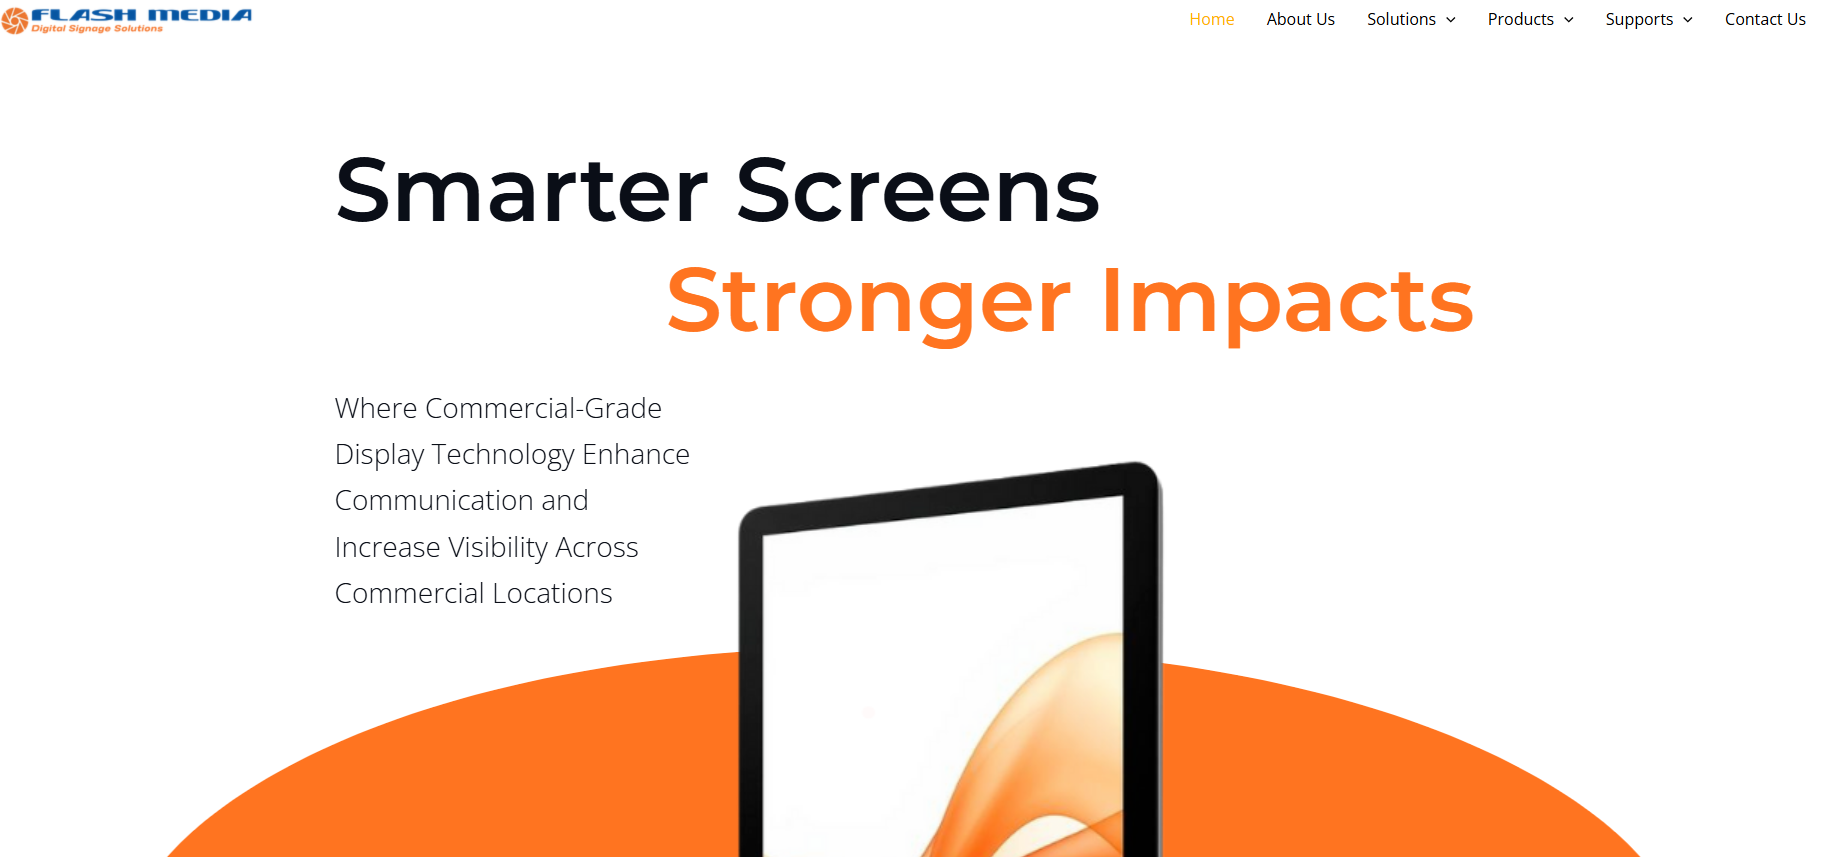
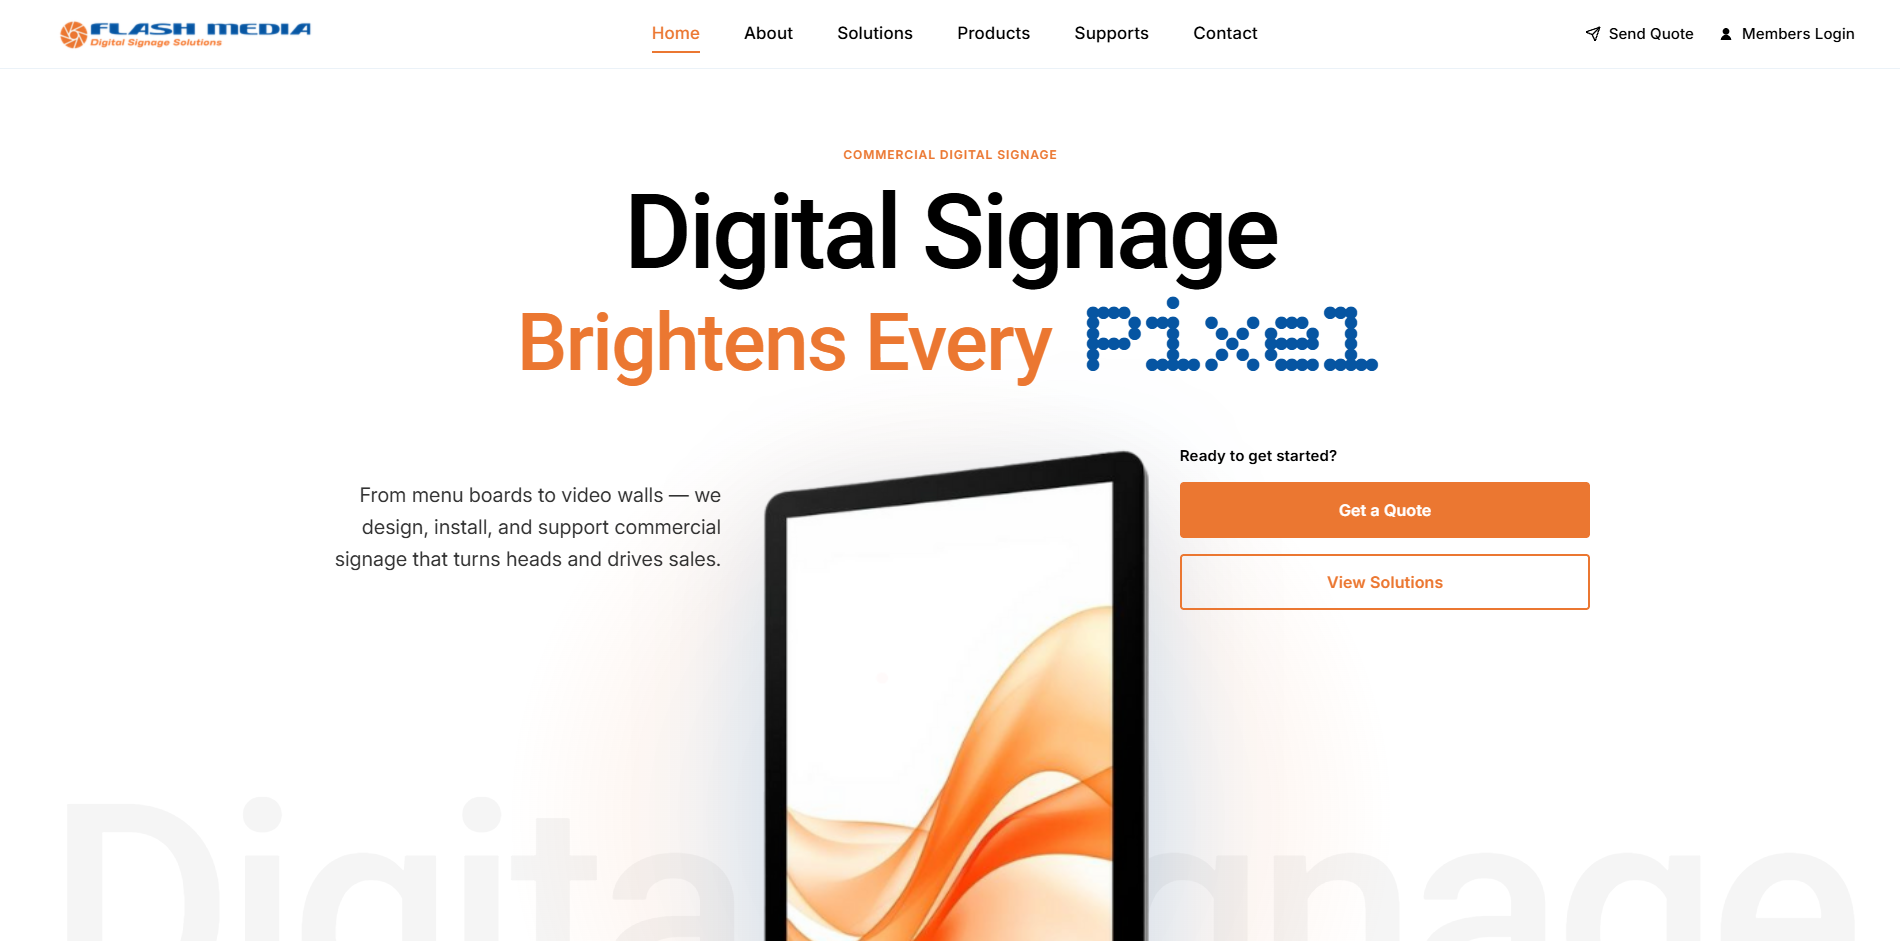
(update) add flower shop & goya projects, optimise spline load
- Add La Maison de Fleurs and Goya Museum web projects with thumbnails
- Link Flash Media project to dev.flashmedia.net.au
- Lazy-load Spline viewer on scroll into view; remove eager global script
- Fix React 19 JSX typing for spline-viewer custom element

diff --git a/src/components/Hero.tsx b/src/components/Hero.tsx
@@ -1,6 +1,6 @@
-import { useEffect, useRef, useState, Suspense, lazy } from 'react';
+import { useEffect, useRef, useState } from 'react';
 
-declare global {
+declare module 'react' {
   namespace JSX {
     interface IntrinsicElements {
       'spline-viewer': React.DetailedHTMLProps<React.HTMLAttributes<HTMLElement> & {
@@ -9,6 +9,25 @@ declare global {
       }, HTMLElement>;
     }
   }
+}
+
+const SPLINE_VIEWER_SRC = 'https://unpkg.com/@splinetool/viewer@1.12.70/build/spline-viewer.js';
+
+// Load the heavy Spline web-component script once, on demand. Returns a promise
+// that resolves when <spline-viewer> is registered.
+let splineScriptPromise: Promise<void> | null = null;
+function loadSplineViewer(): Promise<void> {
+  if (splineScriptPromise) return splineScriptPromise;
+  splineScriptPromise = new Promise<void>((resolve, reject) => {
+    if (customElements.get('spline-viewer')) return resolve();
+    const script = document.createElement('script');
+    script.type = 'module';
+    script.src = SPLINE_VIEWER_SRC;
+    script.onload = () => resolve();
+    script.onerror = () => reject(new Error('Failed to load spline-viewer'));
+    document.head.appendChild(script);
+  });
+  return splineScriptPromise;
 }
 
 const FallbackCrystal = () => {
@@ -70,8 +89,46 @@ const SplineCrystal = () => (
   />
 );
 
+// Loads the Spline script only once the container is near the viewport, then
+// swaps the fallback canvas for the real scene. Falls back permanently on error.
+const LazySpline = () => {
+  const containerRef = useRef<HTMLDivElement>(null);
+  const [ready, setReady] = useState(false);
+  const [failed, setFailed] = useState(false);
+
+  useEffect(() => {
+    const el = containerRef.current;
+    if (!el) return;
+
+    let cancelled = false;
+    const start = () => {
+      loadSplineViewer()
+        .then(() => { if (!cancelled) setReady(true); })
+        .catch(() => { if (!cancelled) setFailed(true); });
+    };
+
+    const observer = new IntersectionObserver(
+      (entries) => {
+        if (entries.some((e) => e.isIntersecting)) {
+          observer.disconnect();
+          start();
+        }
+      },
+      { rootMargin: '200px' }
+    );
+    observer.observe(el);
+
+    return () => { cancelled = true; observer.disconnect(); };
+  }, []);
+
+  return (
+    <div ref={containerRef} className="w-full h-full flex items-center justify-center">
+      {ready && !failed ? <SplineCrystal /> : <FallbackCrystal />}
+    </div>
+  );
+};
+
 export default function Hero() {
-  const [splineError, setSplineError] = useState(false);
   const contentRef = useRef<HTMLDivElement>(null);
 
   useEffect(() => {
@@ -110,13 +167,7 @@ export default function Hero() {
           <div className="lg:col-span-7 xl:col-span-6 relative order-2 lg:order-1">
             <div className="animate-float relative w-full h-[50vh] md:h-[60vh] lg:h-[70vh] xl:h-[80vh] flex items-center justify-center">
               <div className="spline-container absolute inset-0 lg:-left-12 xl:-left-24 flex items-center justify-center">
-                {!splineError ? (
-                  <Suspense fallback={<FallbackCrystal />}>
-                    <SplineCrystal onError={() => setSplineError(true)} />
-                  </Suspense>
-                ) : (
-                  <FallbackCrystal />
-                )}
+                <LazySpline />
               </div>
               <div className="absolute top-10 right-10 w-20 h-20 bg-amber/20 rounded-full blur-xl animate-pulse pointer-events-none" />
               <div className="absolute bottom-20 left-10 w-16 h-16 bg-green/20 rounded-full blur-xl animate-pulse delay-700 pointer-events-none" />

diff --git a/index.html b/index.html
@@ -10,15 +10,18 @@
     <!-- Preconnect to Google Fonts -->
     <link rel="preconnect" href="https://fonts.googleapis.com">
     <link rel="preconnect" href="https://fonts.gstatic.com" crossorigin>
-    
+
+    <!-- Preconnect for on-demand Spline viewer load -->
+    <link rel="preconnect" href="https://unpkg.com" crossorigin>
+    <link rel="preconnect" href="https://prod.spline.design" crossorigin>
+
     <!-- Preload critical fonts -->
     <link rel="preload" as="style" href="https://fonts.googleapis.com/css2?family=Share+Tech+Mono&family=Silkscreen:wght@400;700&display=swap">
     <link rel="stylesheet" href="https://fonts.googleapis.com/css2?family=Share+Tech+Mono&family=Silkscreen:wght@400;700&display=swap">
-    
+
     <title>Zen's Portfolio</title>
     <meta name="description" content="Portfolio of zenzen - Building digital experiences that bridge creative design and technical precision." />
-    
-    <script type="module" src="https://unpkg.com/@splinetool/viewer@1.12.70/build/spline-viewer.js"></script>
+
     <!-- Prevent FOUC -->
     <style>
       html {